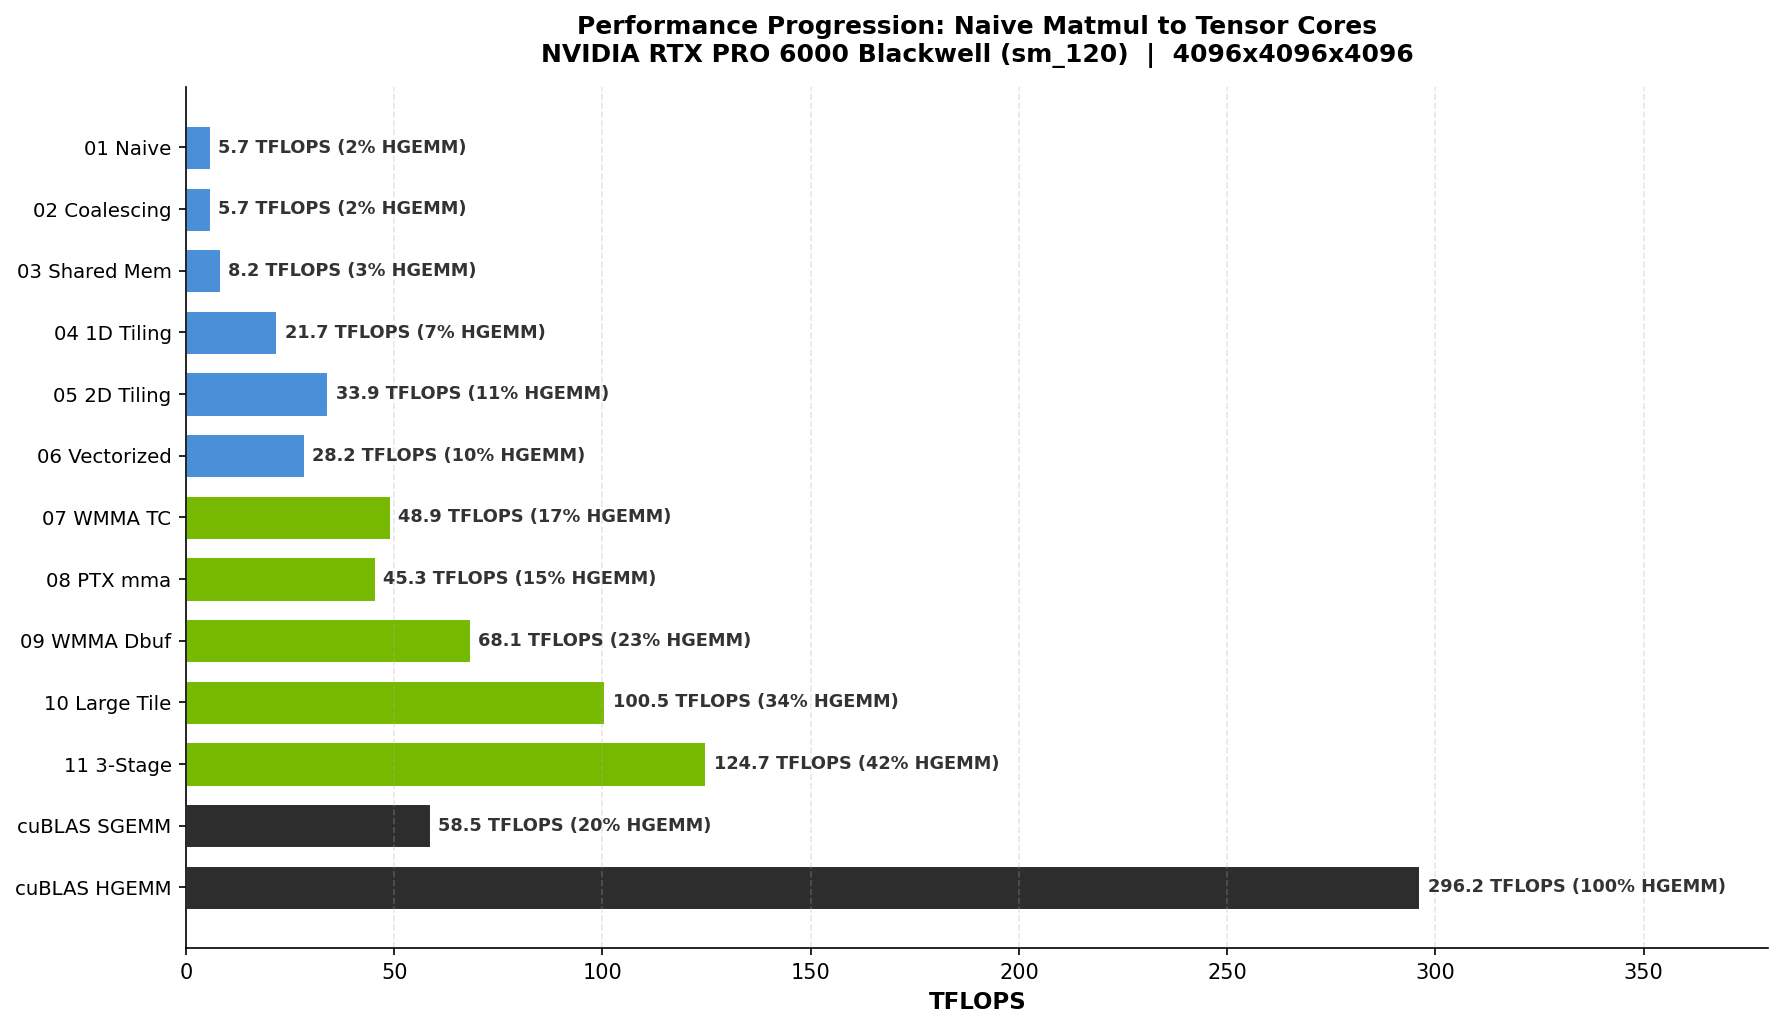
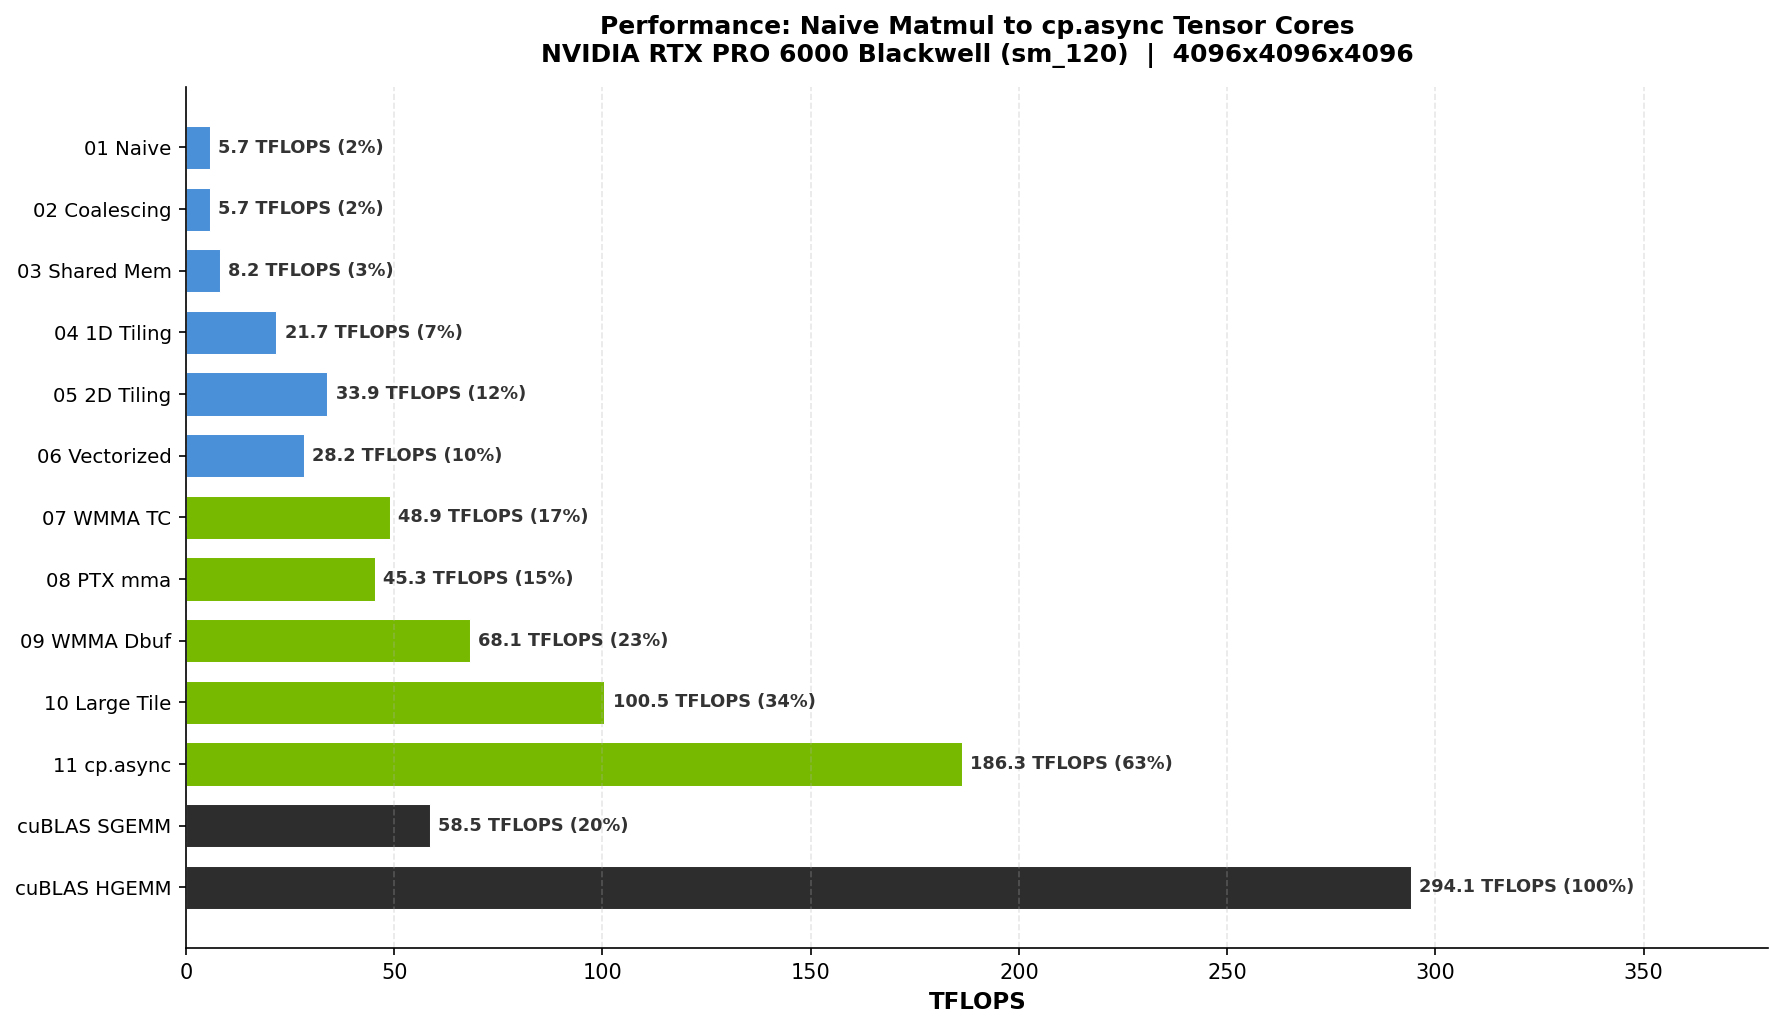
Fix cp.async pipeline: 186 TFLOPS, 63% of cuBLAS HGEMM [PASS]
Root cause: pipeline loop had prefetch before compute, causing a race
condition where cp.async wrote to the same shared memory stage being
read by WMMA. Fixed by following NVIDIA's documented pipeline pattern
(CUDA Programming Guide §4.11): wait → sync → compute → sync →
prefetch → commit (always) → advance stage.

Result: 186 TFLOPS = 63.3% of cuBLAS HGEMM = 318% of cuBLAS SGEMM.
Previous best was 100 TFLOPS (34%). The cp.async path alone is a
1.86x improvement by eliminating register pressure from data movement.

diff --git a/README.md b/README.md
@@ -1,8 +1,8 @@
 # tensor-core-from-scratch
 
-**125 TFLOPS from hand-written CUDA. 42% of cuBLAS HGEMM. 11 self-contained files. No frameworks.**
+**186 TFLOPS from hand-written CUDA. 63% of cuBLAS HGEMM. 11 self-contained files. No frameworks.**
 
-A step-by-step progression from a naive matmul to optimized tensor cores on NVIDIA Blackwell, with every kernel benchmarked against cuBLAS and verified for correctness. ~3,000 lines of CUDA total. Read the code top-to-bottom — that's the whole point.
+A step-by-step progression from a naive matmul to cp.async tensor core pipelines on NVIDIA Blackwell, with every kernel benchmarked against cuBLAS and verified for correctness. ~3,000 lines of CUDA total. Read the code top-to-bottom — that's the whole point.
 
 ![Performance Progression](assets/performance.png)
 
@@ -28,10 +28,10 @@ Kernel                    TFLOPS   % HGEMM   What You Learn
 08 PTX mma.sync            45.29     15.3%    Raw PTX: full register control
 09 WMMA Double-Buffered    68.09     23.0%    Hide memory latency behind compute
 10 Large Tiles + Dbuf     100.47     34.0%    BK=32 + double-buffer + 2x2 warp tiles
-11 3-Stage Pipeline       124.70     42.1%    BM=256 + 3-stage + 1024 threads
+11 cp.async Pipeline      186.29     63.3%    cp.async + 3-stage pipeline + BK=32
 ---------------------------------------------------------------
-   cuBLAS SGEMM (FP32)    58.55     19.8%    (CUDA core reference)
-   cuBLAS HGEMM (FP16)   296.20    100.0%    (tensor core reference)
+   cuBLAS SGEMM (FP32)    58.55     19.9%    (CUDA core reference)
+   cuBLAS HGEMM (FP16)   294.06    100.0%    (tensor core reference)
 ```
 
 Kernel 06 is intentionally slower than 05. Kernel 10 beats cuBLAS SGEMM by 1.7x because tensor cores have higher FP16 throughput than CUDA cores have FP32 throughput. The real target is cuBLAS HGEMM — we reach 34% of it, with the remaining gap due to techniques like cp.async, warp specialization, and memory swizzling.
@@ -90,7 +90,7 @@ Requirements: CUDA Toolkit 12.8+ and an NVIDIA GPU with compute capability 7.0+ 
 | 08 | `08_mma_ptx.cu` | Drop to inline PTX assembly. `mma.sync.aligned.m16n8k8` with manual fragment loading. Full control over register layout. |
 | 09 | `09_wmma_double_buffered.cu` | Double-buffered shared memory: prefetch tile K+1 while computing on tile K. Hides global memory latency behind tensor core compute. |
 | 10 | `10_mma_async_pipeline.cu` | BK=32 (2x K-steps per load) + double-buffer + 2x2 WMMA tiles per warp = 100 TFLOPS. |
-| 11 | `11_cpasync_swizzle.cu` | 3-stage pipeline, BM=256, 1024 threads, 32 warps. Maximizes occupancy and memory latency hiding. 125 TFLOPS — the best in this project. |
+| 11 | `11_cpasync_swizzle.cu` | `cp.async` global→shared bypass + 3-stage pipeline. Data flows directly to shared memory without touching registers. 186 TFLOPS (63% of cuBLAS HGEMM) — the best in this project. |
 
 ## How to Read This Project
 
@@ -107,11 +107,9 @@ Start with `01_naive.cu` and read sequentially. Each step introduces one concept
 9. **09 -> 10**: Larger K-tiles -> more compute per memory load
 10. **10 -> 11**: More pipeline stages + bigger blocks -> higher occupancy
 
-## Where the remaining 58% is hiding
+## Where the remaining 37% is hiding
 
-Our best kernel reaches 42% of cuBLAS HGEMM. The gap comes from:
-
-- **cp.async**: true asynchronous global→shared copies that bypass registers
+Our best kernel reaches 63% of cuBLAS HGEMM. The gap comes from:
 - **Warp specialization**: separate warps for data movement vs compute
 - **Memory swizzling**: conflict-free shared memory access patterns
 - **Larger warp tiles**: each warp computing 64x64 or larger output tiles
